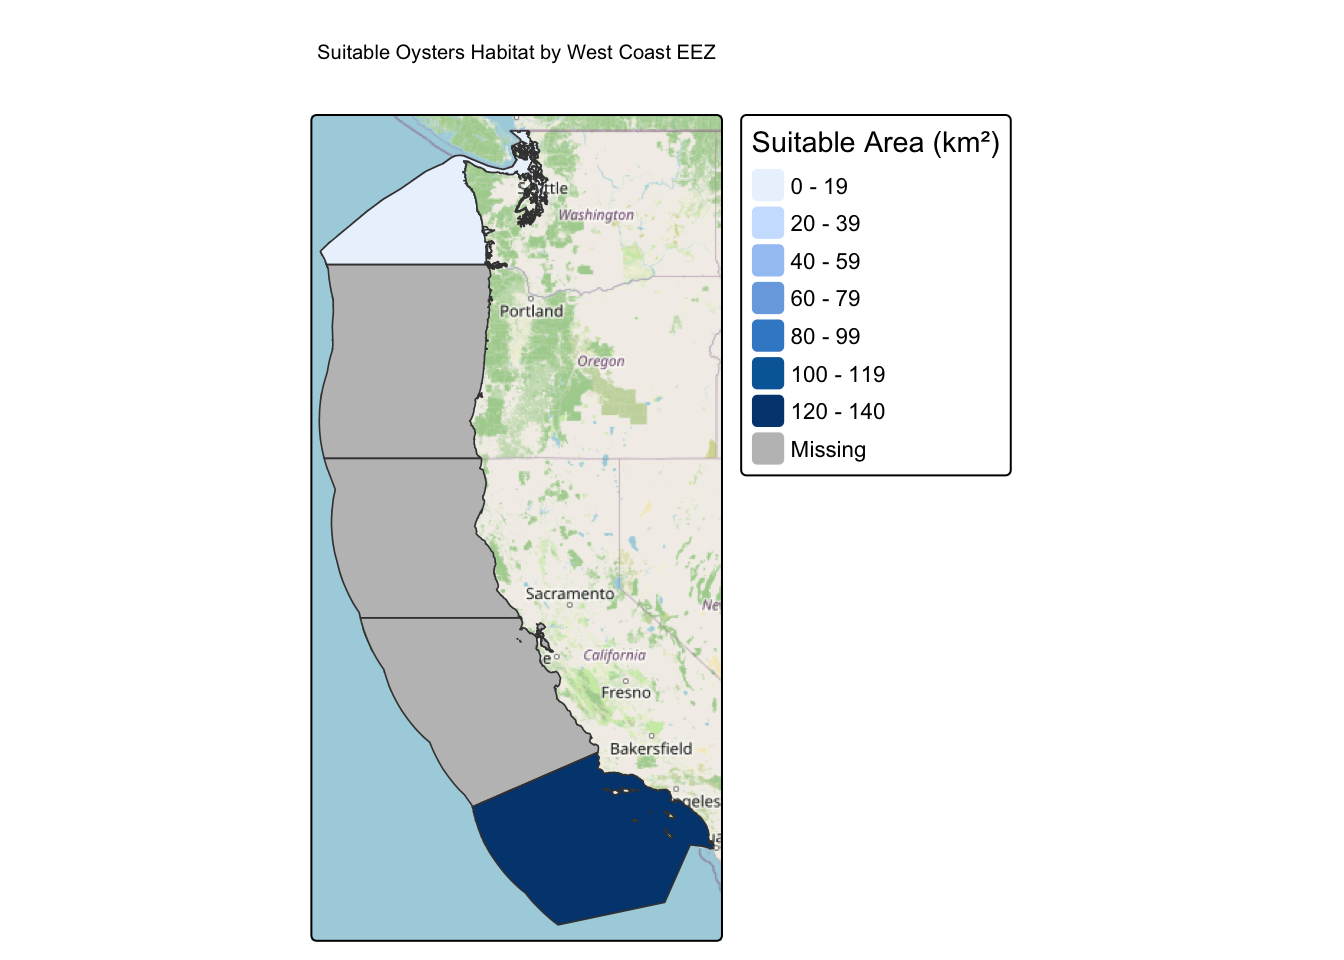
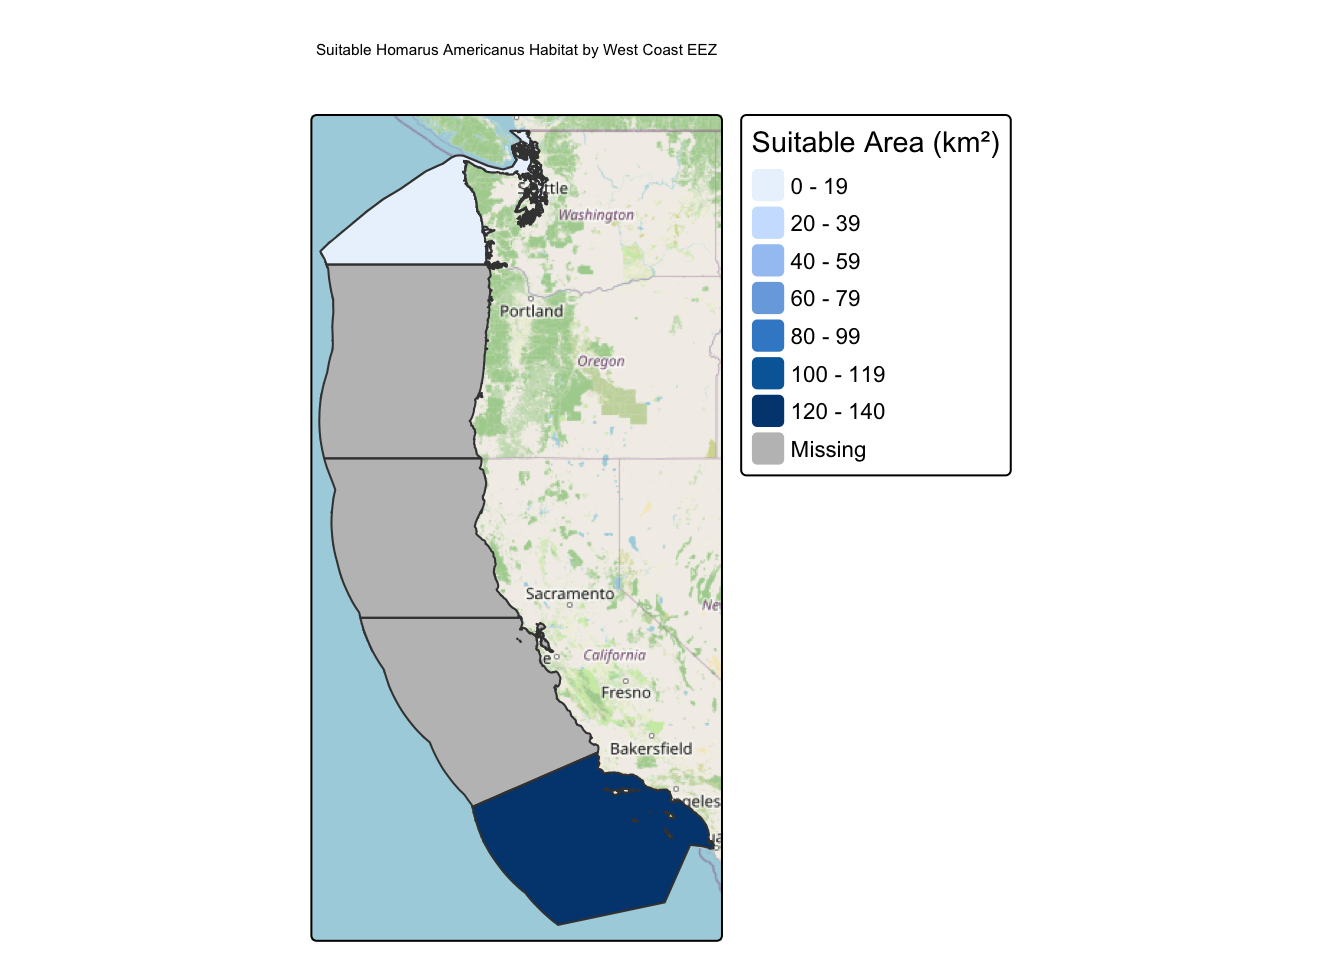
resubmitted

Changed region(s): [[0.2188, 0.0312, 0.5312, 0.0625], [0.3438, 0.125, 0.4062, 0.2188], [0.3438, 0.25, 0.375, 0.2812]]

diff --git a/aquaculture_analysis.html b/aquaculture_analysis.html
@@ -632,7 +632,7 @@ Geodetic CRS:  WGS 84</code></pre>
 <span id="cb44-44"><a href="#cb44-44" aria-hidden="true" tabindex="-1"></a>    <span class="at">fill =</span> <span class="st">"area"</span>,</span>
 <span id="cb44-45"><a href="#cb44-45" aria-hidden="true" tabindex="-1"></a>    <span class="at">fill.legend =</span> <span class="fu">tm_legend</span>(<span class="at">title =</span> <span class="st">"Suitable Area (km²)"</span>)</span>
 <span id="cb44-46"><a href="#cb44-46" aria-hidden="true" tabindex="-1"></a>  ) <span class="sc">+</span></span>
-<span id="cb44-47"><a href="#cb44-47" aria-hidden="true" tabindex="-1"></a>  <span class="fu">tm_borders</span>(<span class="at">lwd =</span> <span class="fl">0.8</span>) <span class="sc">+</span></span>
+<span id="cb44-47"><a href="#cb44-47" aria-hidden="true" tabindex="-1"></a>  <span class="fu">tm_borders</span>(<span class="at">lwd =</span> <span class="fl">1.0</span>) <span class="sc">+</span></span>
 <span id="cb44-48"><a href="#cb44-48" aria-hidden="true" tabindex="-1"></a>  <span class="fu">tm_title</span>(<span class="fu">paste</span>(<span class="st">"Suitable"</span>, species_name, <span class="st">"Habitat by West Coast EEZ"</span>))</span>
 <span id="cb44-49"><a href="#cb44-49" aria-hidden="true" tabindex="-1"></a>}</span></code></pre></div><button title="Copy to Clipboard" class="code-copy-button"><i class="bi"></i></button></div>
 </div>
@@ -666,7 +666,7 @@ Geodetic CRS:  WGS 84</code></pre>
 <span id="cb46-3"><a href="#cb46-3" aria-hidden="true" tabindex="-1"></a>  <span class="at">max_sst =</span> <span class="dv">20</span>,</span>
 <span id="cb46-4"><a href="#cb46-4" aria-hidden="true" tabindex="-1"></a>  <span class="at">min_depth =</span> <span class="dv">0</span>,</span>
 <span id="cb46-5"><a href="#cb46-5" aria-hidden="true" tabindex="-1"></a>  <span class="at">max_depth =</span> <span class="dv">480</span>,</span>
-<span id="cb46-6"><a href="#cb46-6" aria-hidden="true" tabindex="-1"></a>  <span class="at">species_name =</span> <span class="st">"Oysters"</span></span>
+<span id="cb46-6"><a href="#cb46-6" aria-hidden="true" tabindex="-1"></a>  <span class="at">species_name =</span> <span class="st">"Homarus Americanus"</span></span>
 <span id="cb46-7"><a href="#cb46-7" aria-hidden="true" tabindex="-1"></a>)</span></code></pre></div><button title="Copy to Clipboard" class="code-copy-button"><i class="bi"></i></button></div>
 <div class="cell-output-display">
 <div>
